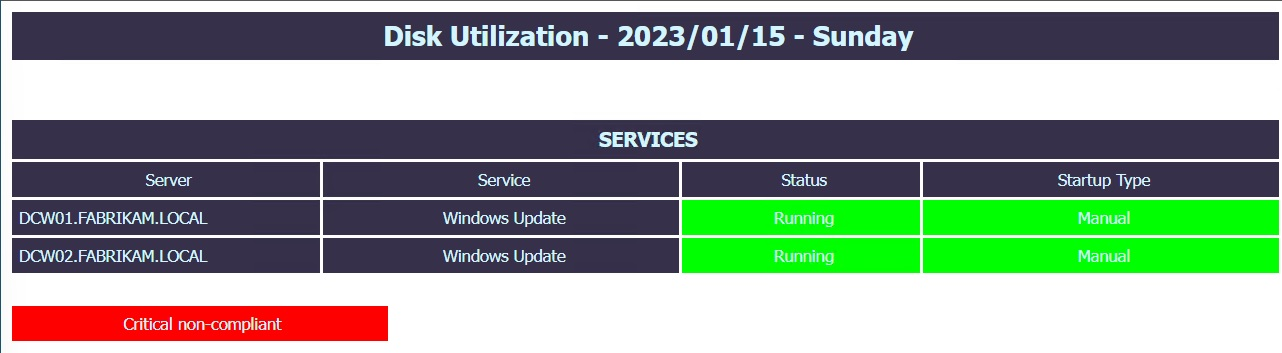
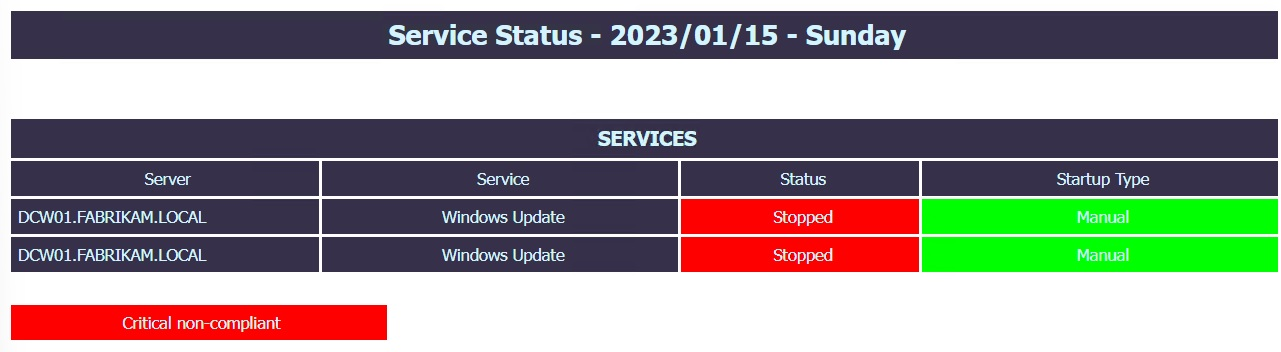
initial commit

diff --git a/ServiceStatus.html b/ServiceStatus.html
@@ -34,7 +34,7 @@
 	<table width='100%'> 
 	<tr bgcolor='#36304a'> 
 	<td colspan='7' height='25' align='center'> 
-	<font face='tahoma' color='#d2f5ff' size='4'><strong>Disk Utilization - 2023/01/15 - Sunday</strong></font> 
+	<font face='tahoma' color='#d2f5ff' size='4'><strong>Service Status - 2023/01/15 - Sunday</strong></font> 
 	</td> 
 	</tr> 
     </table>
@@ -59,15 +59,15 @@
             <tr> 
             <td width='10%' bgcolor='#36304a'>DCW01.FABRIKAM.LOCAL</td> 
             <td width='10%' bgcolor='#36304a' align='center'>Windows Update</td> 
-            <td width='10%' bgcolor=#00FF00 align='center'>Running</td> 
+            <td width='10%' bgcolor=#FF0000 align='center'>Stopped</td> 
             <td width='10%' bgcolor=#00FF00 align='center'>Manual</td> 
             </tr> 
     	
  
             <tr> 
-            <td width='10%' bgcolor='#36304a'>DCW02.FABRIKAM.LOCAL</td> 
+            <td width='10%' bgcolor='#36304a'>DCW01.FABRIKAM.LOCAL</td> 
             <td width='10%' bgcolor='#36304a' align='center'>Windows Update</td> 
-            <td width='10%' bgcolor=#00FF00 align='center'>Running</td> 
+            <td width='10%' bgcolor=#FF0000 align='center'>Stopped</td> 
             <td width='10%' bgcolor=#00FF00 align='center'>Manual</td> 
             </tr> 
     	
